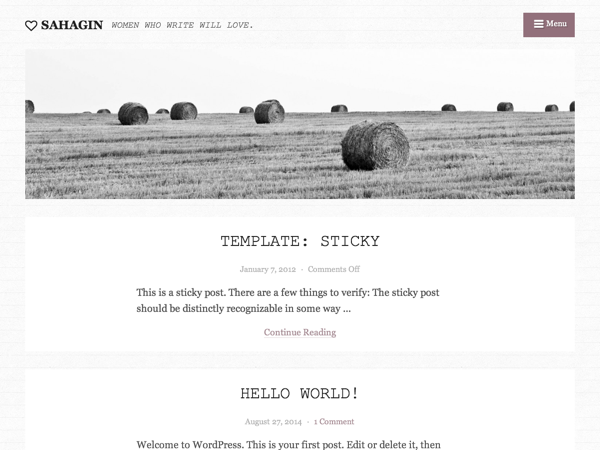
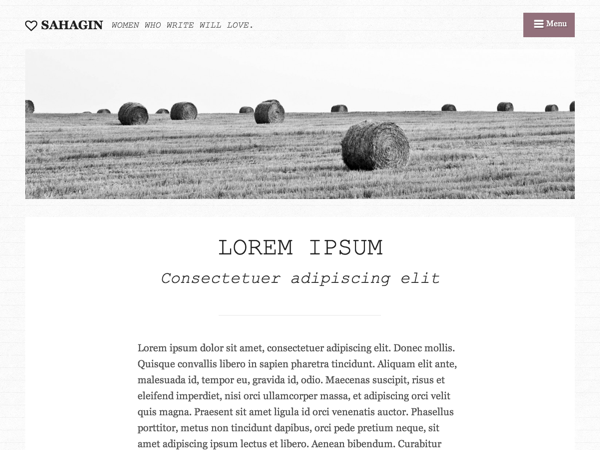
better styles for the subtitles plugin

Changed region(s): [[0.21, 0.4978, 0.75, 1.0]]

diff --git a/lib/assets/css/base.css b/lib/assets/css/base.css
@@ -26,3 +26,9 @@ h1, h2, h3, h4, h5, h6,
     font-weight: normal;
     text-transform: uppercase;
 }
+
+.main .entry-subtitle {
+    font-family: 'Courier New', sans-serif;
+    font-style: italic;
+    text-transform: none;
+}
